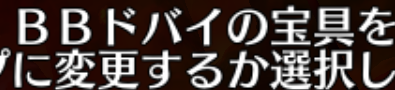
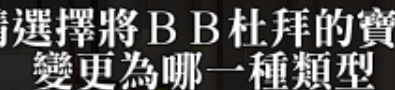
FGOTW update dubaibb skill

diff --git a/game_script/check_stage.js b/game_script/check_stage.js
@@ -444,9 +444,6 @@ function isBattleSkillEmiyaDialog(screenshot) {
 }
 
 function isBattleSkillDubaiDialog(screenshot) {
-  if (server == "TW") {
-    return false;
-  }
   return checkIconListInScreen(
     ["dubaiSkill", "dubaiSkill2", "dubaiSkill3"],
     false,

diff --git a/index.js b/index.js
@@ -5,7 +5,7 @@ var itemPath;
 var server;
 var loadApiCnt;
 
-var version = "V3.79";
+var version = "V3.80";
 
 function start(loopTime, script, scriptName, be, pref) {
   startScript(loopTime, script, scriptName, be, pref);

diff --git a/index.html b/index.html
@@ -33,8 +33,8 @@
   <!-- End Google Analytics -->
 
   <script>
-    var server = "JP";
-    // var server = "TW";
+    // var server = "JP";
+    var server = "TW";
     var isDebug = false;
   </script>
 
